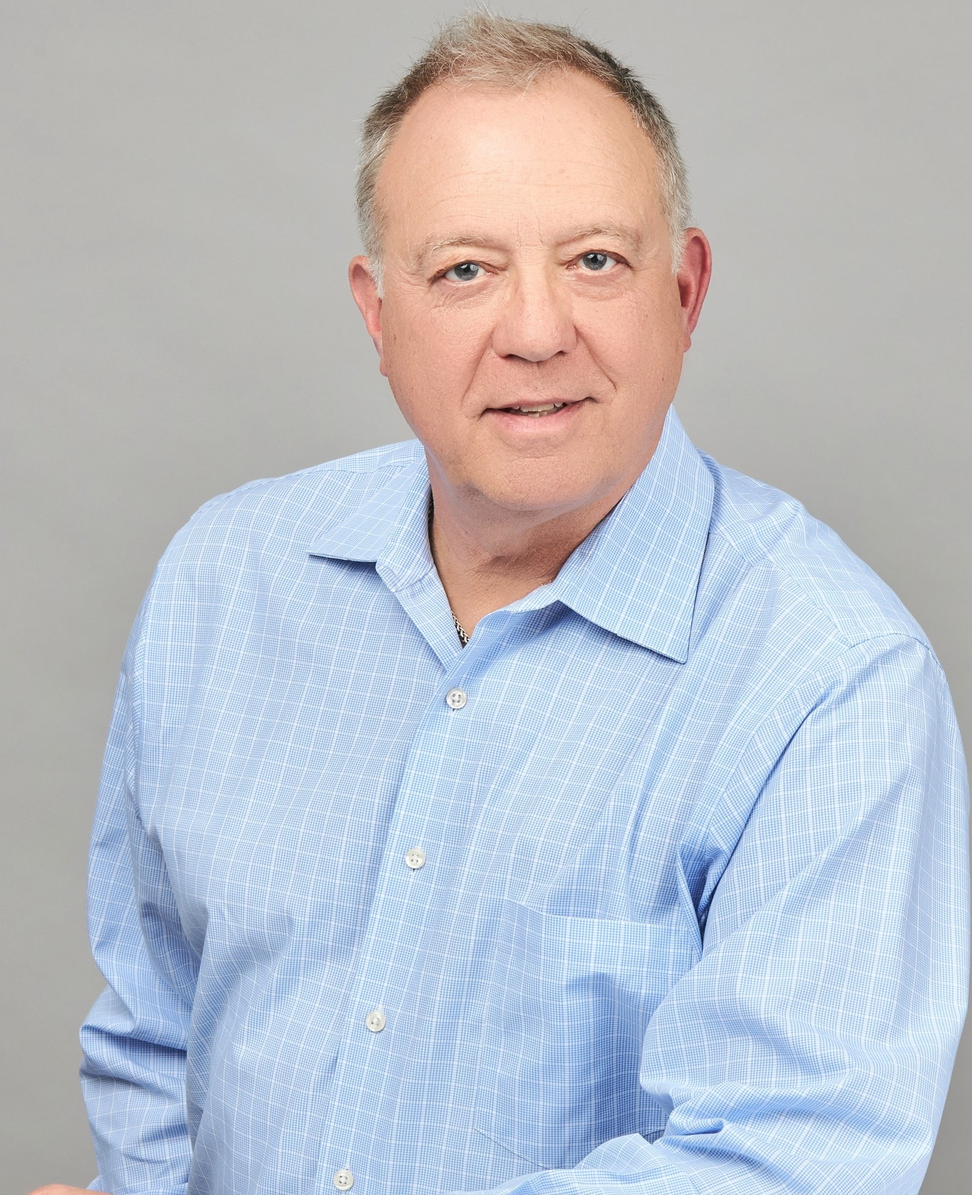
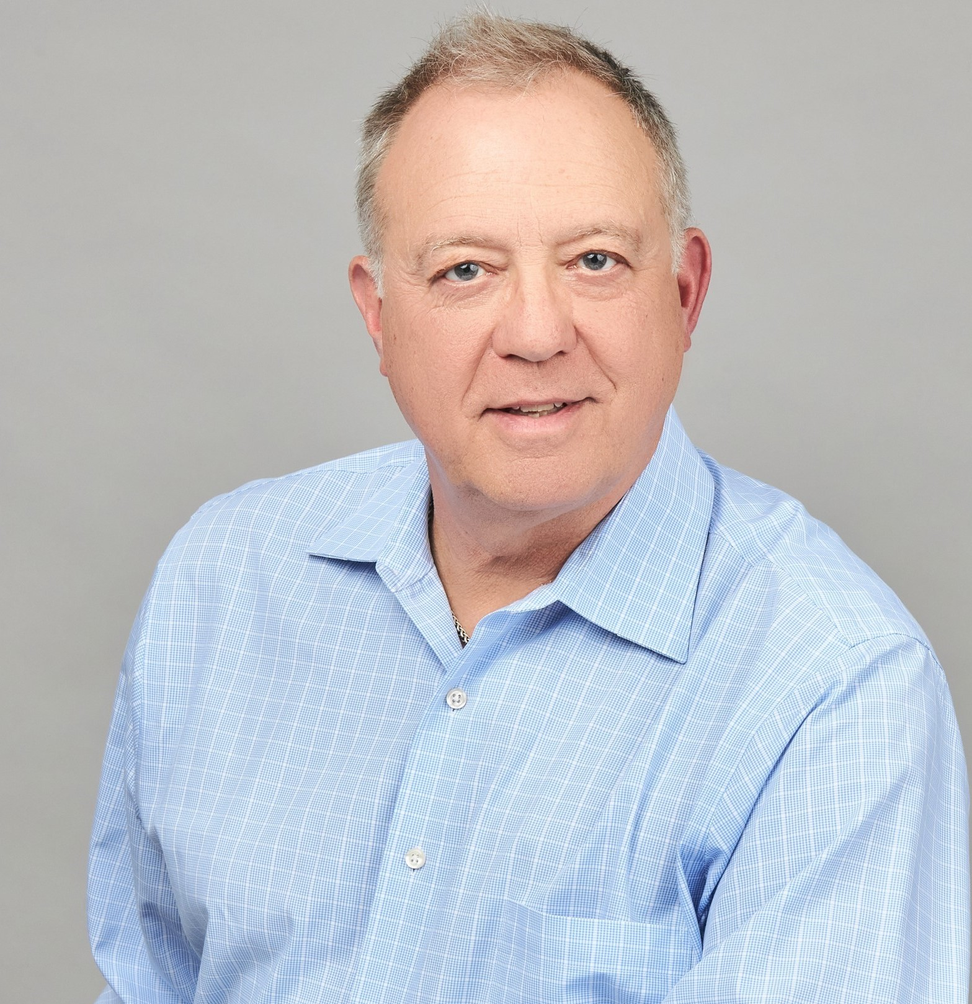
Refactor code structure for improved readability and maintainability

diff --git a/about.html b/about.html
@@ -1235,7 +1235,134 @@
                   <div class="margin-bottom spacing-l">
                     <div class="h1-size">Leadership Team</div>
                   </div>
-                  <div class="_2-col-grid is-our-story">
+                  <div class="_2-col-grid is-our-story leadership-grid">
+                    <style>
+                      .leadership-grid {
+                        display: grid;
+                        grid-template-columns: repeat(2, minmax(0, 1fr));
+                        gap: 28px;
+                      }
+
+                      .leadership-grid > .founders-card {
+                        background: #ffffff;
+                        border-radius: 14px;
+                        padding: 22px;
+                        box-shadow: 0 10px 26px rgba(11, 31, 58, 0.18);
+                        transition:
+                          transform 0.2s ease,
+                          box-shadow 0.2s ease;
+                        height: 100%;
+                        display: flex;
+                        flex-direction: column;
+                        justify-content: space-between;
+                        gap: 18px;
+                      }
+
+                      .leadership-grid > .founders-card:hover {
+                        transform: translateY(-4px);
+                        box-shadow: 0 16px 34px rgba(11, 31, 58, 0.24);
+                      }
+
+                      .leadership-grid .founders-card-content {
+                        display: flex;
+                        flex-direction: column;
+                        align-items: flex-start;
+                        gap: 18px;
+                      }
+
+                      .leadership-grid .founders-img-wrap {
+                        flex: none;
+                        width: 6.5rem;
+                        aspect-ratio: 1;
+                        border-radius: 9px;
+                        overflow: hidden;
+                        border: 3px solid #e3edf9;
+                        box-shadow: 0 4px 10px rgba(11, 95, 149, 0.15);
+                      }
+
+                      .leadership-grid .founders-img-wrap img {
+                        width: 100%;
+                        height: 100%;
+                        object-fit: cover;
+                      }
+
+                      .leadership-grid .founders-content {
+                        gap: 0.5rem;
+                      }
+
+                      .leadership-grid .founders-content .h5-size,
+                      .leadership-grid .founders-content div,
+                      .leadership-grid .founders-content p {
+                        color: #10233f !important;
+                      }
+
+                      .leadership-grid .founders-content .h5-size {
+                        font-weight: 700;
+                        font-size: 1.05rem;
+                      }
+
+                      .leadership-grid .founders-content .eyebrow {
+                        color: #0b5f95 !important;
+                        font-weight: 600;
+                        text-transform: uppercase;
+                        letter-spacing: 0.03em;
+                        font-size: 0.8rem;
+                      }
+
+                      .leadership-grid .founders-content p {
+                        line-height: 1.6;
+                        font-size: 0.85rem;
+                        color: #33415c !important;
+                      }
+
+                      .leadership-grid .founders-link {
+                        align-self: flex-end;
+                        display: inline-flex;
+                        align-items: center;
+                        gap: 6px;
+                        padding: 8px 16px;
+                        border-radius: 10px;
+                        background: #e9edff;
+                        transition:
+                          background 0.3s ease,
+                          transform 0.2s ease;
+                      }
+
+                      .leadership-grid .founders-link .h5-size {
+                        color: #0b5f95 !important;
+                        font-size: 0.9rem;
+                      }
+
+                      .leadership-grid .founders-link-underiline {
+                        display: none;
+                      }
+
+                      .leadership-grid .founders-link:hover {
+                        background: #0b5f95;
+                        transform: translateY(-1px);
+                      }
+
+                      .leadership-grid .founders-link:hover .h5-size {
+                        color: #ffffff !important;
+                      }
+
+                      @media (max-width: 991px) {
+                        .leadership-grid {
+                          grid-template-columns: 1fr;
+                          gap: 18px;
+                        }
+
+                        .leadership-grid > .founders-card {
+                          padding: 18px;
+                        }
+                      }
+
+                      @media (max-width: 767px) {
+                        .leadership-grid .founders-img-wrap {
+                          width: 5.5rem;
+                        }
+                      }
+                    </style>
                     <div class="founders-card">
                       <div class="founders-card-content">
                         <div class="founders-img-wrap">
@@ -1282,7 +1409,7 @@
                       <div class="founders-card-content">
                         <div class="founders-img-wrap">
                           <img
-                            src="assets/images/Kipton1.jpg"
+                            src="assets/images/Kipton3.jpg"
                             loading="lazy"
                             sizes="(max-width: 479px) 61vw, (max-width: 767px) 31vw, (max-width: 991px) 21vw, 13vw"
                             alt=""
